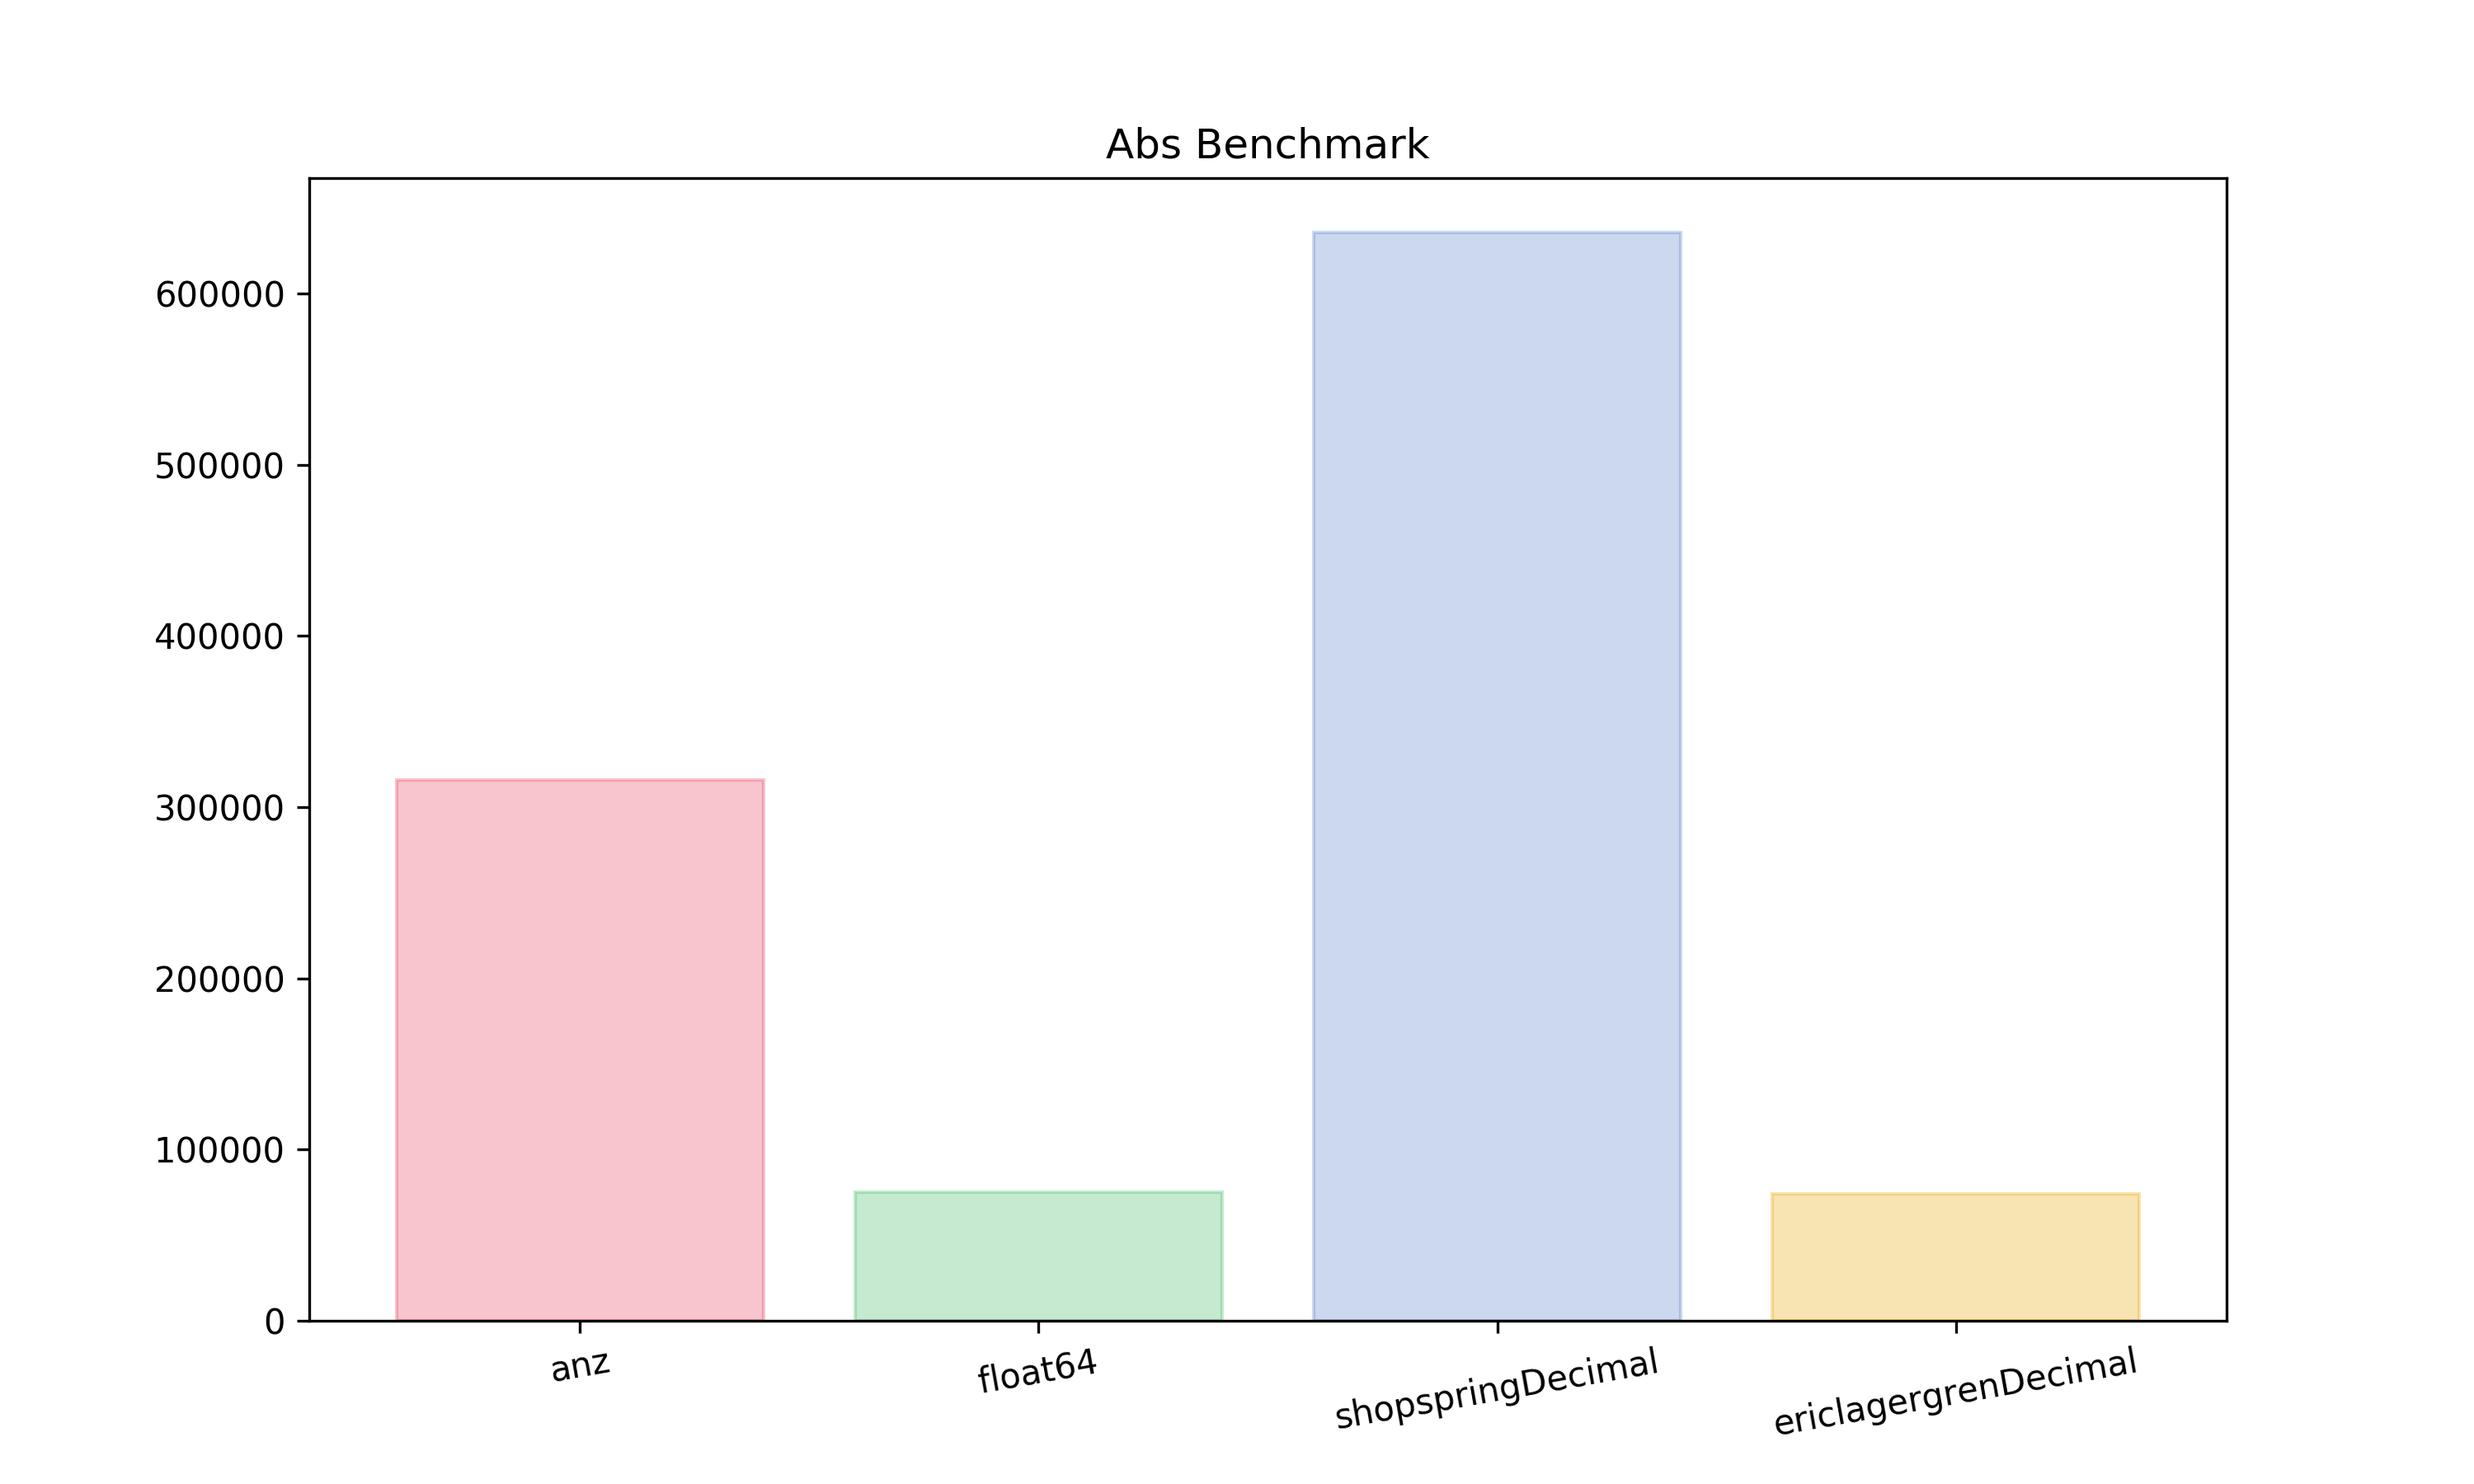
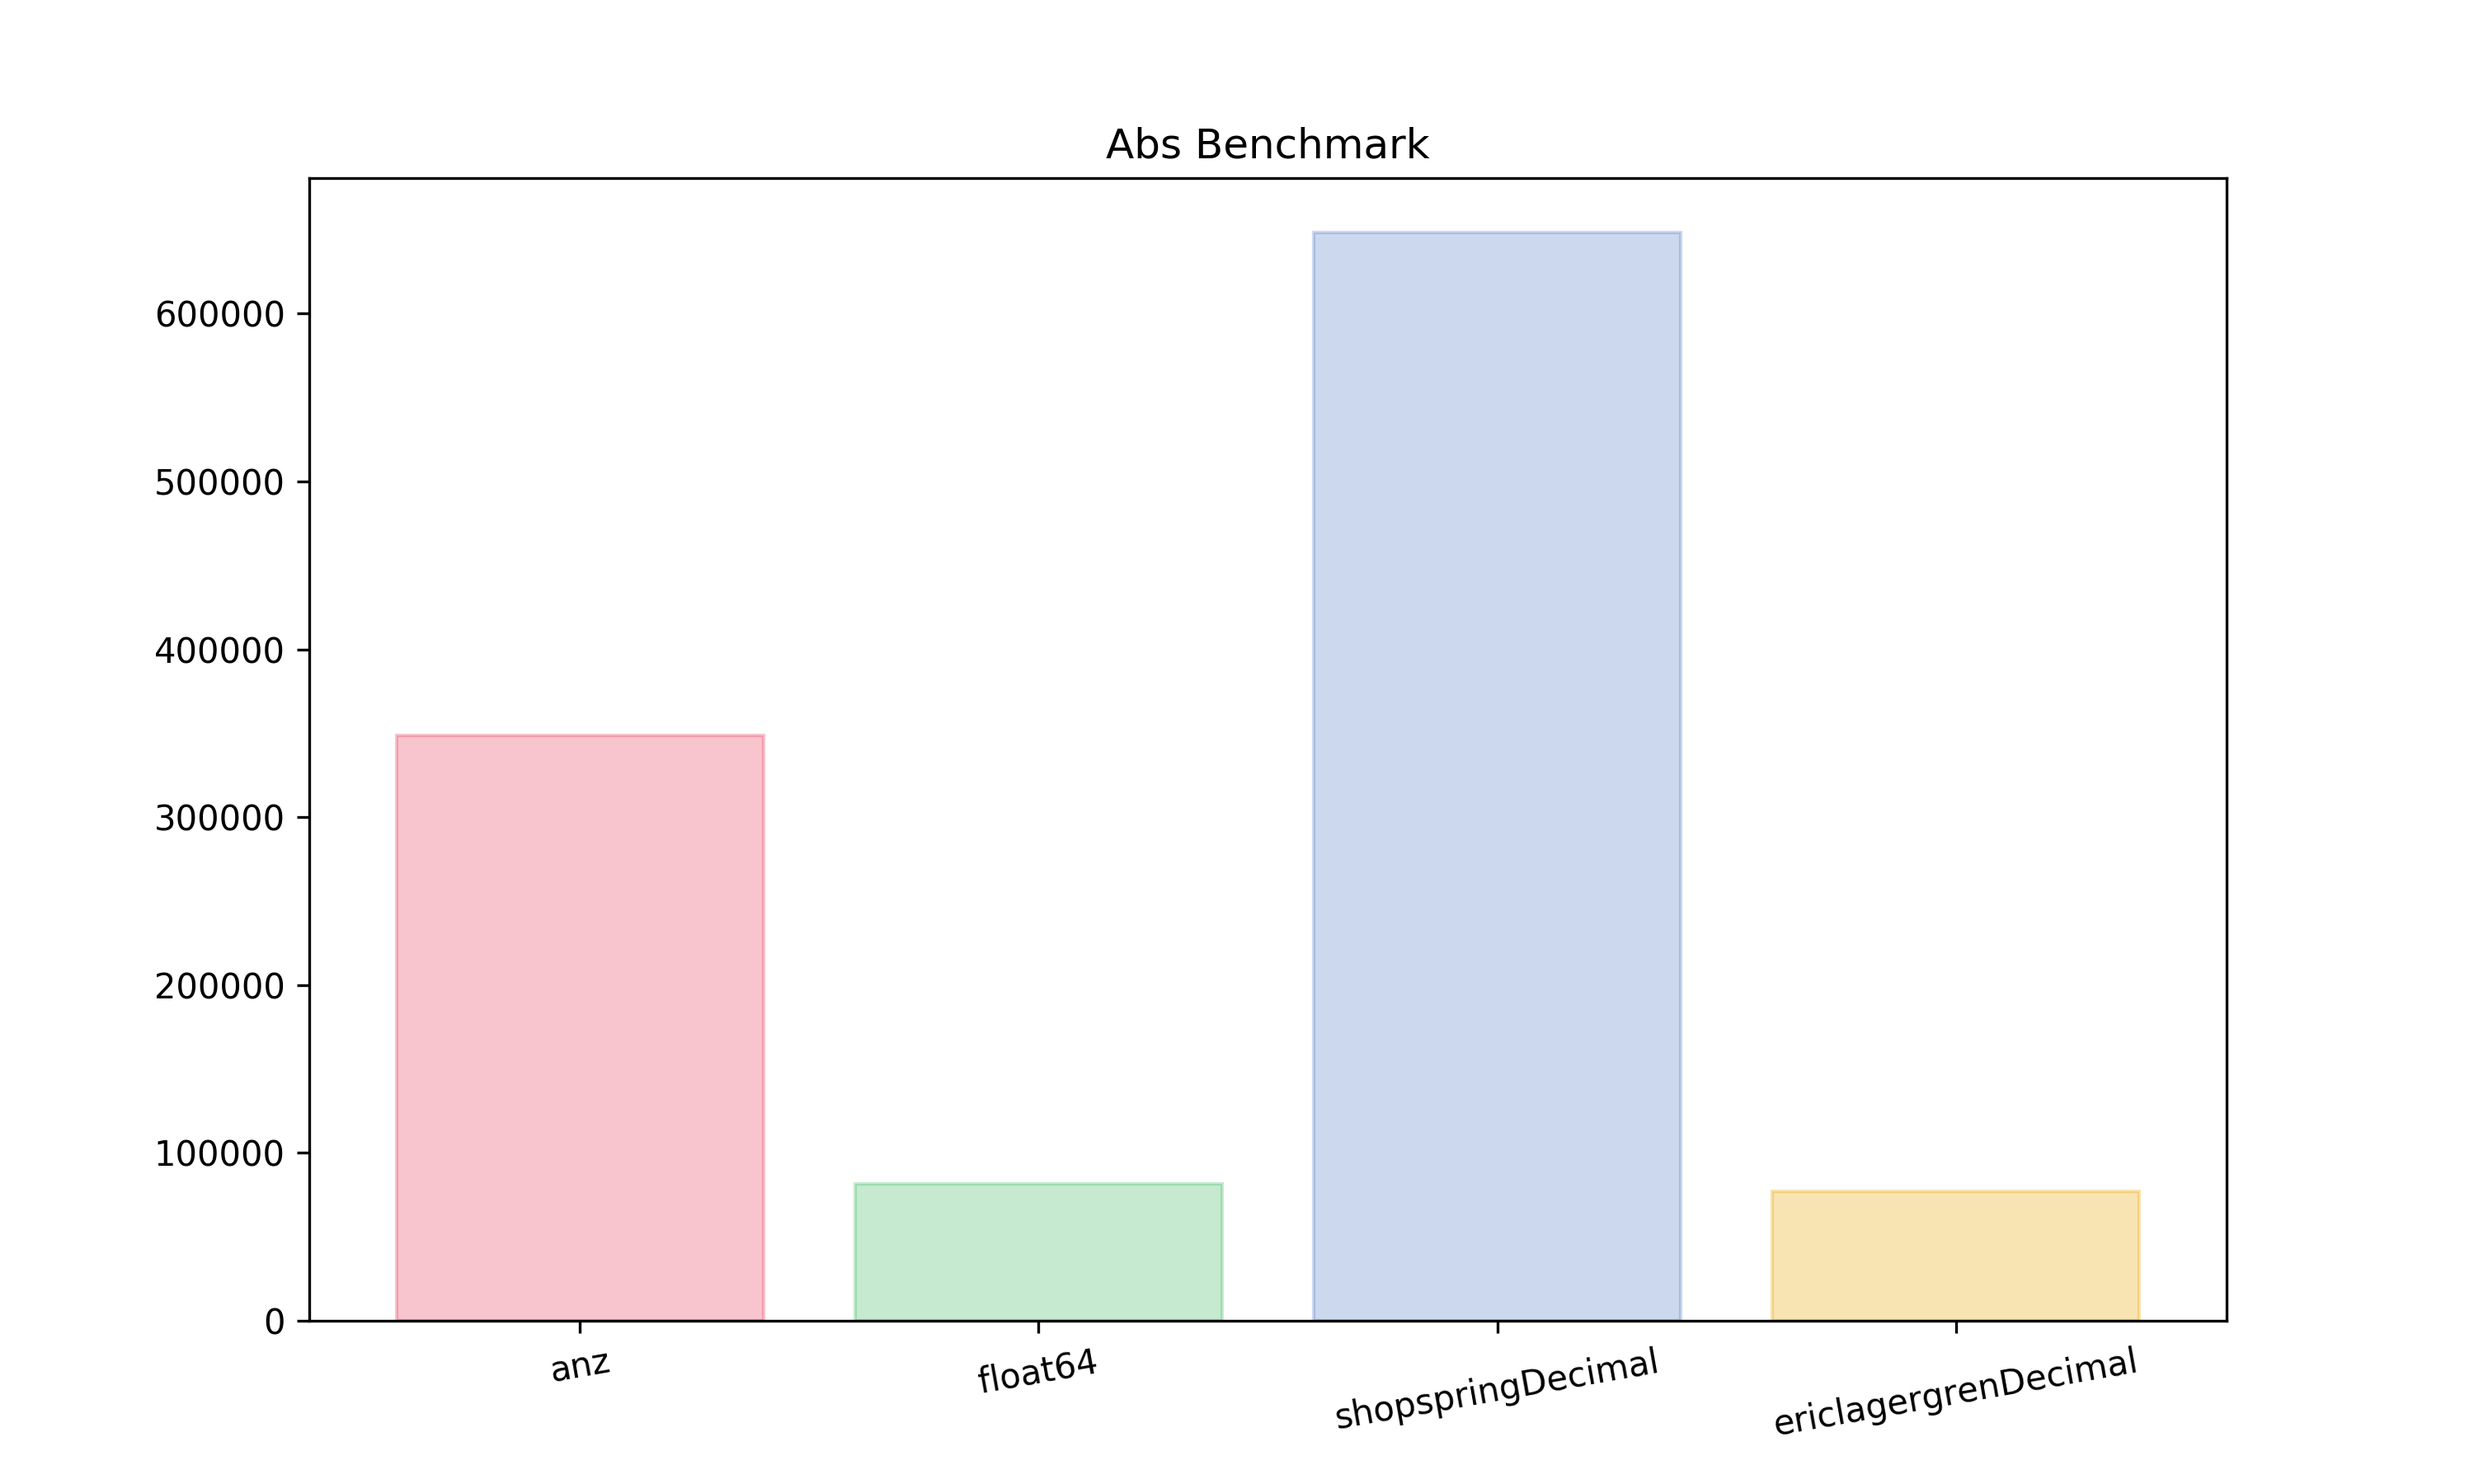
update

diff --git a/examples/benchmark/benchmarkSuite_test.go b/examples/benchmark/benchmarkSuite_test.go
@@ -165,19 +165,19 @@ func getInput(line string) testCaseStrings {
 	}
 	return data
 }
-func execOpEric(a, b, c ericlagergren.Big, op string) *ericlagergren.Big {
+func execOpEric(a, b, c ericlagergren.Big, op string) ericlagergren.Big {
 	switch op {
 	case "add":
-		return a.Add(&a, &b)
+		return *a.Add(&a, &b)
 	case "multiply":
-		return a.Mul(&a, &b)
+		return *a.Mul(&a, &b)
 	case "abs":
-		return a.Abs(&a)
+		return *a.Abs(&a)
 	case "divide":
-		return a.Quo(&a, &b)
+		return *a.Quo(&a, &b)
 	default:
 	}
-	return &ericlagergren.Big{}
+	return ericlagergren.Big{}
 }
 func execOpFloat(a, b, c float64, op string) float64 {
 	switch op {

diff --git a/examples/benchmark/graph.py b/examples/benchmark/graph.py
@@ -56,7 +56,7 @@ def generate_graph(responsetime_filename):
         # plt.ylabel('Time taken (ns)')
         plt.savefig(os.path.abspath('../../content/')+f"/img/{name}.png", dpi=300, figsize=(50,25))
 
-# os.system("go test -bench=. > results.txt")
+os.system("go test -bench=. > results.txt")
 c = convertToCsv("results.txt")
 
 generate_graph("results.csv")
